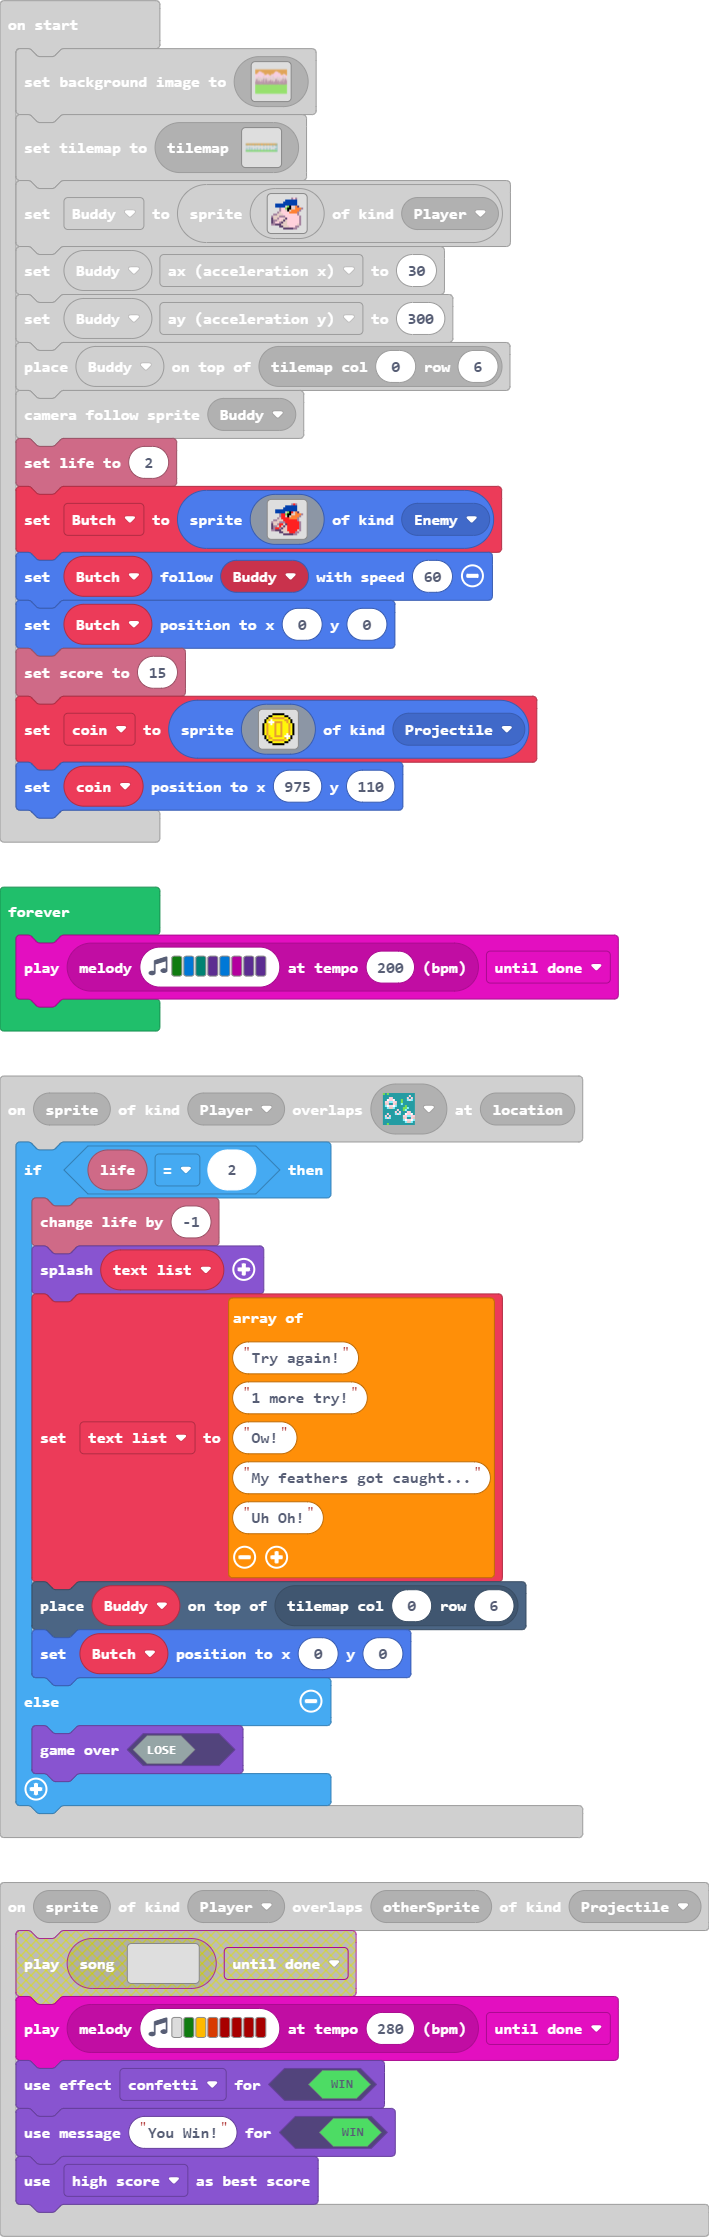
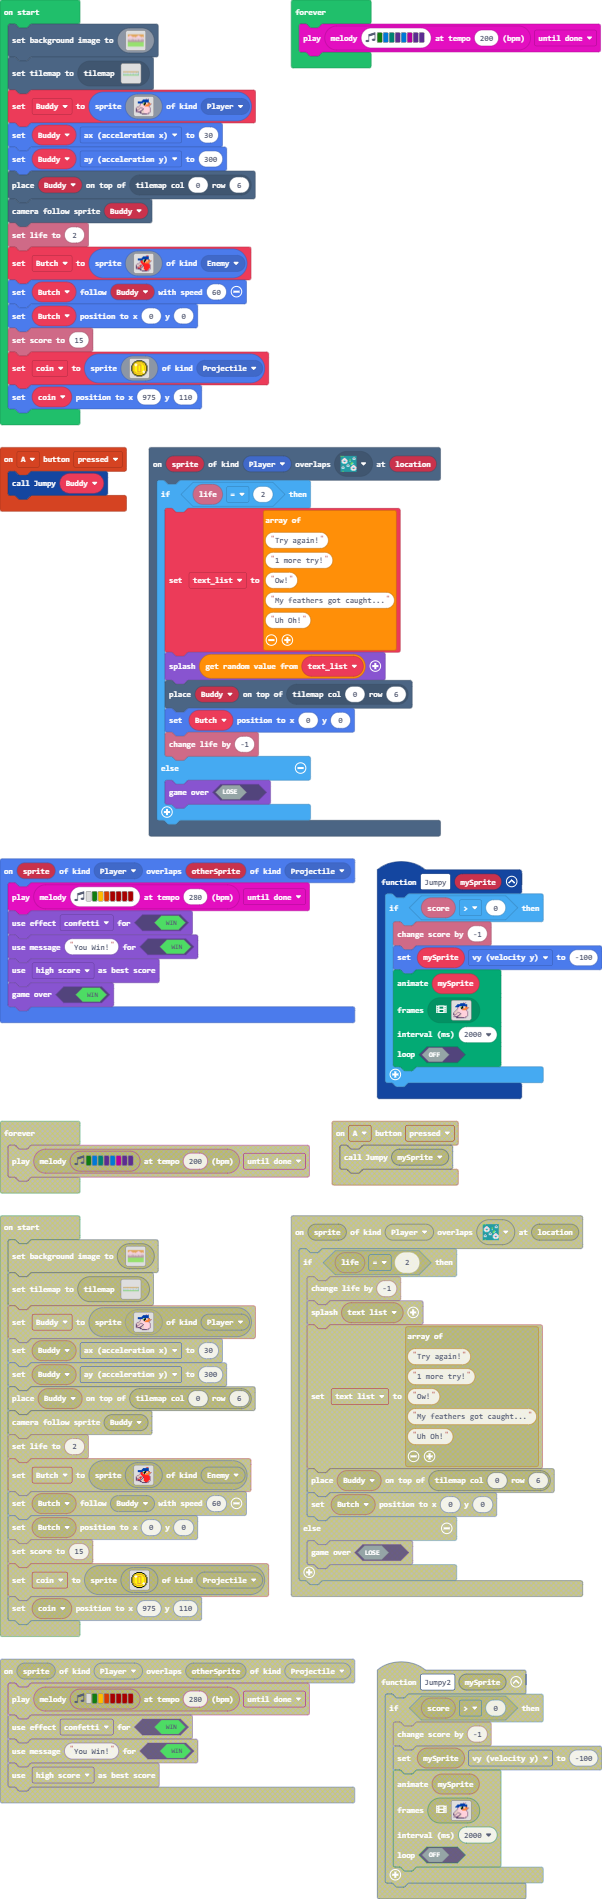
Update main.blocks, main.ts

diff --git a/main.ts b/main.ts
@@ -75,11 +75,10 @@ sprites.onOverlap(SpriteKind.Player, SpriteKind.Projectile, function (sprite, ot
     game.setGameOverEffect(true, effects.confetti)
     game.setGameOverMessage(true, "You Win!")
     game.setGameOverScoringType(game.ScoringType.HighScore)
+    game.gameOver(true)
 })
 scene.onOverlapTile(SpriteKind.Player, sprites.castle.tileDarkGrass2, function (sprite, location) {
     if (info.life() == 2) {
-        info.changeLifeBy(-1)
-        game.splash(text_list)
         text_list = [
         "Try again!",
         "1 more try!",
@@ -87,8 +86,10 @@ scene.onOverlapTile(SpriteKind.Player, sprites.castle.tileDarkGrass2, function (
         "My feathers got caught...",
         "Uh Oh!"
         ]
+        game.splash(text_list._pickRandom())
         tiles.placeOnTile(Buddy, tiles.getTileLocation(0, 6))
         Butch.setPosition(0, 0)
+        info.changeLifeBy(-1)
     } else {
         game.gameOver(false)
     }
